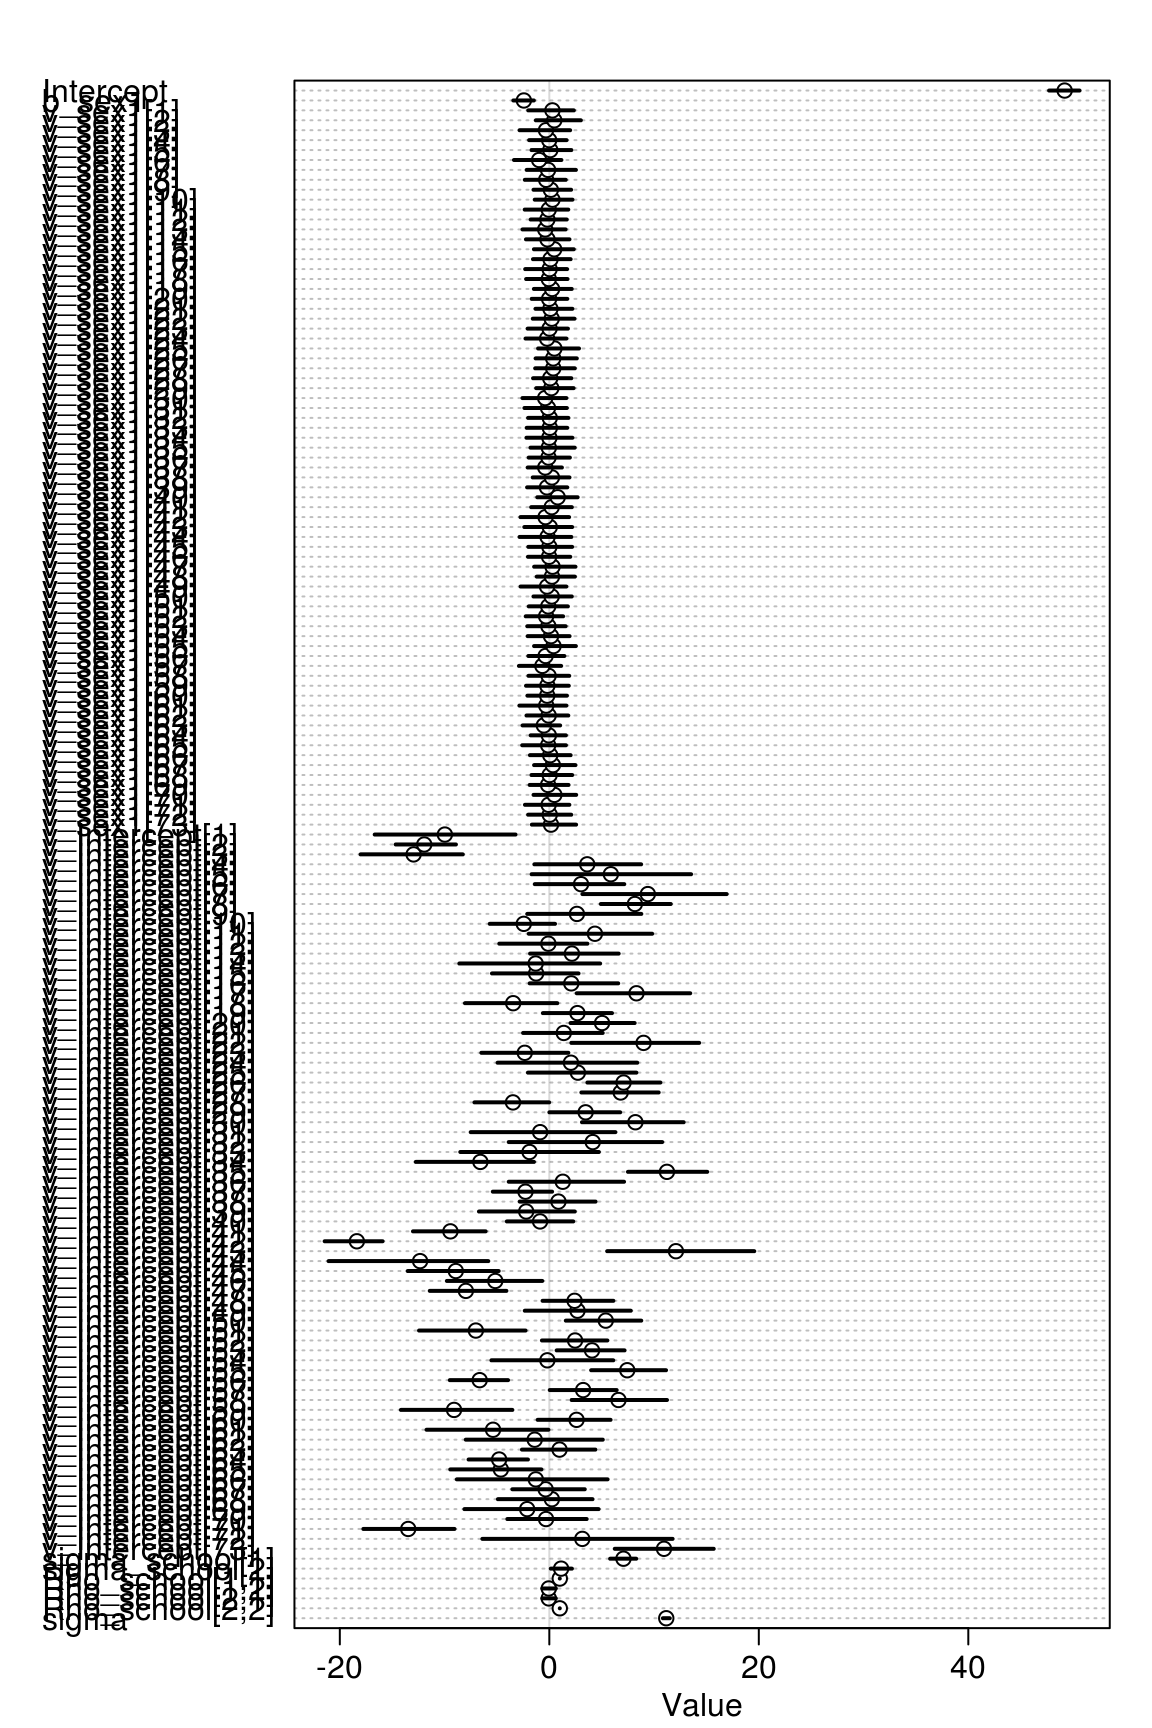
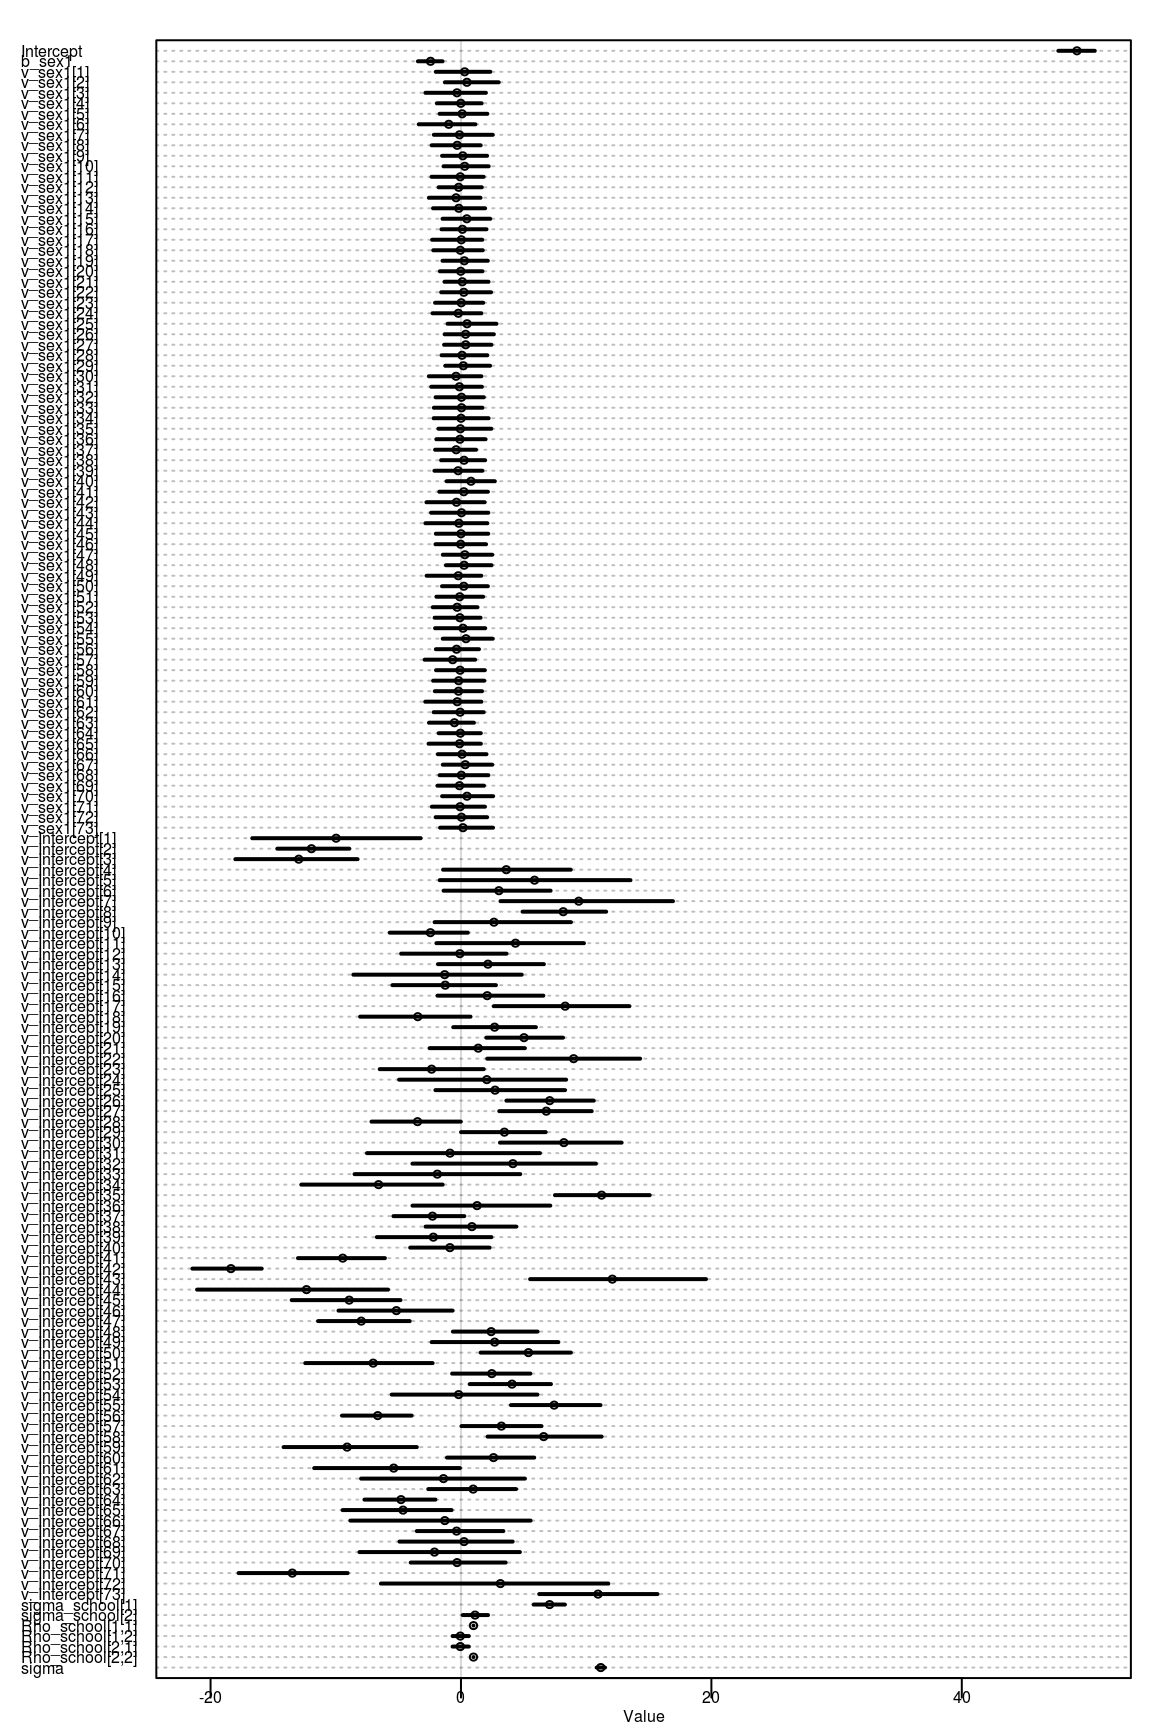
Update the book

Changed region(s): [[0.0, 0.0, 1.0, 1.0]]

diff --git a/hierarhilised-mudelid.html b/hierarhilised-mudelid.html
@@ -306,9 +306,7 @@ schools &lt;-<span class="st"> </span>schools <span class="op">%&gt;%</span>
 <p>Võrdleme mudeleid.</p>
 <div class="sourceCode"><pre class="sourceCode r"><code class="sourceCode r"><span class="kw">compare</span>(schoolm2, schoolm3)</code></pre></div>
 <p>Siit nähtub, et m3 on parim mudel, aga ka m2 omab mingit kaalu.</p>
-<div class="sourceCode"><pre class="sourceCode r"><code class="sourceCode r"><span class="kw">plot</span>(<span class="kw">coeftab</span>(schoolm2, schoolm3)) <span class="op">+</span><span class="st"> </span>
-<span class="st">  </span><span class="kw">theme</span>(<span class="dt">axis.text.x =</span> <span class="kw">element_text</span>(<span class="dt">size =</span> <span class="dv">8</span>))
-<span class="co">#&gt; NULL</span></code></pre></div>
+<div class="sourceCode"><pre class="sourceCode r"><code class="sourceCode r"><span class="kw">coeftab_plot</span>(<span class="kw">coeftab</span>(schoolm2, schoolm3), <span class="dt">cex =</span> <span class="fl">0.5</span>)</code></pre></div>
 <div class="figure" style="text-align: center"><span id="fig:unnamed-chunk-11"></span>
 <img src="15_hierarhiline_mudel_files/figure-html/unnamed-chunk-11-1.png" alt="Mudelite koefitsiendid." width="70%" />
 <p class="caption">
@@ -448,7 +446,7 @@ Joonis 16.1: Korrelatsiooni prior on nõrgalt informatiivne – suunab posteerio
     Rho_school <span class="op">~</span><span class="st"> </span><span class="kw">dlkjcorr</span>(<span class="dv">2</span>),
     sigma <span class="op">~</span><span class="st"> </span><span class="kw">dcauchy</span>(<span class="dv">0</span>,<span class="dv">2</span>)
 ), schools_f2<span class="op">$</span>d)</code></pre></div>
-<div class="sourceCode"><pre class="sourceCode r"><code class="sourceCode r"><span class="kw">plot</span>(<span class="kw">precis</span>(schools_m2, <span class="dt">depth =</span> <span class="dv">2</span>))</code></pre></div>
+<div class="sourceCode"><pre class="sourceCode r"><code class="sourceCode r"><span class="kw">plot</span>(<span class="kw">precis</span>(schools_m2, <span class="dt">depth =</span> <span class="dv">2</span>), <span class="dt">cex =</span> <span class="fl">0.5</span>)</code></pre></div>
 <div class="figure" style="text-align: center"><span id="fig:unnamed-chunk-25"></span>
 <img src="15_hierarhiline_mudel_files/figure-html/unnamed-chunk-25-1.png" alt="Mudeli m2 koefitsiendid." width="70%" />
 <p class="caption">

diff --git a/15_hierarhiline_mudel.md b/15_hierarhiline_mudel.md
@@ -161,9 +161,7 @@ Siit nähtub, et m3 on parim mudel, aga ka m2 omab mingit kaalu.
 
 
 ```r
-plot(coeftab(schoolm2, schoolm3)) + 
-  theme(axis.text.x = element_text(size = 8))
-#> NULL
+coeftab_plot(coeftab(schoolm2, schoolm3), cex = 0.5)
 ```
 
 <div class="figure" style="text-align: center">
@@ -375,7 +373,7 @@ schools_m2 <- map2stan(alist(
 
 
 ```r
-plot(precis(schools_m2, depth = 2))
+plot(precis(schools_m2, depth = 2), cex = 0.5)
 ```
 
 <div class="figure" style="text-align: center">
